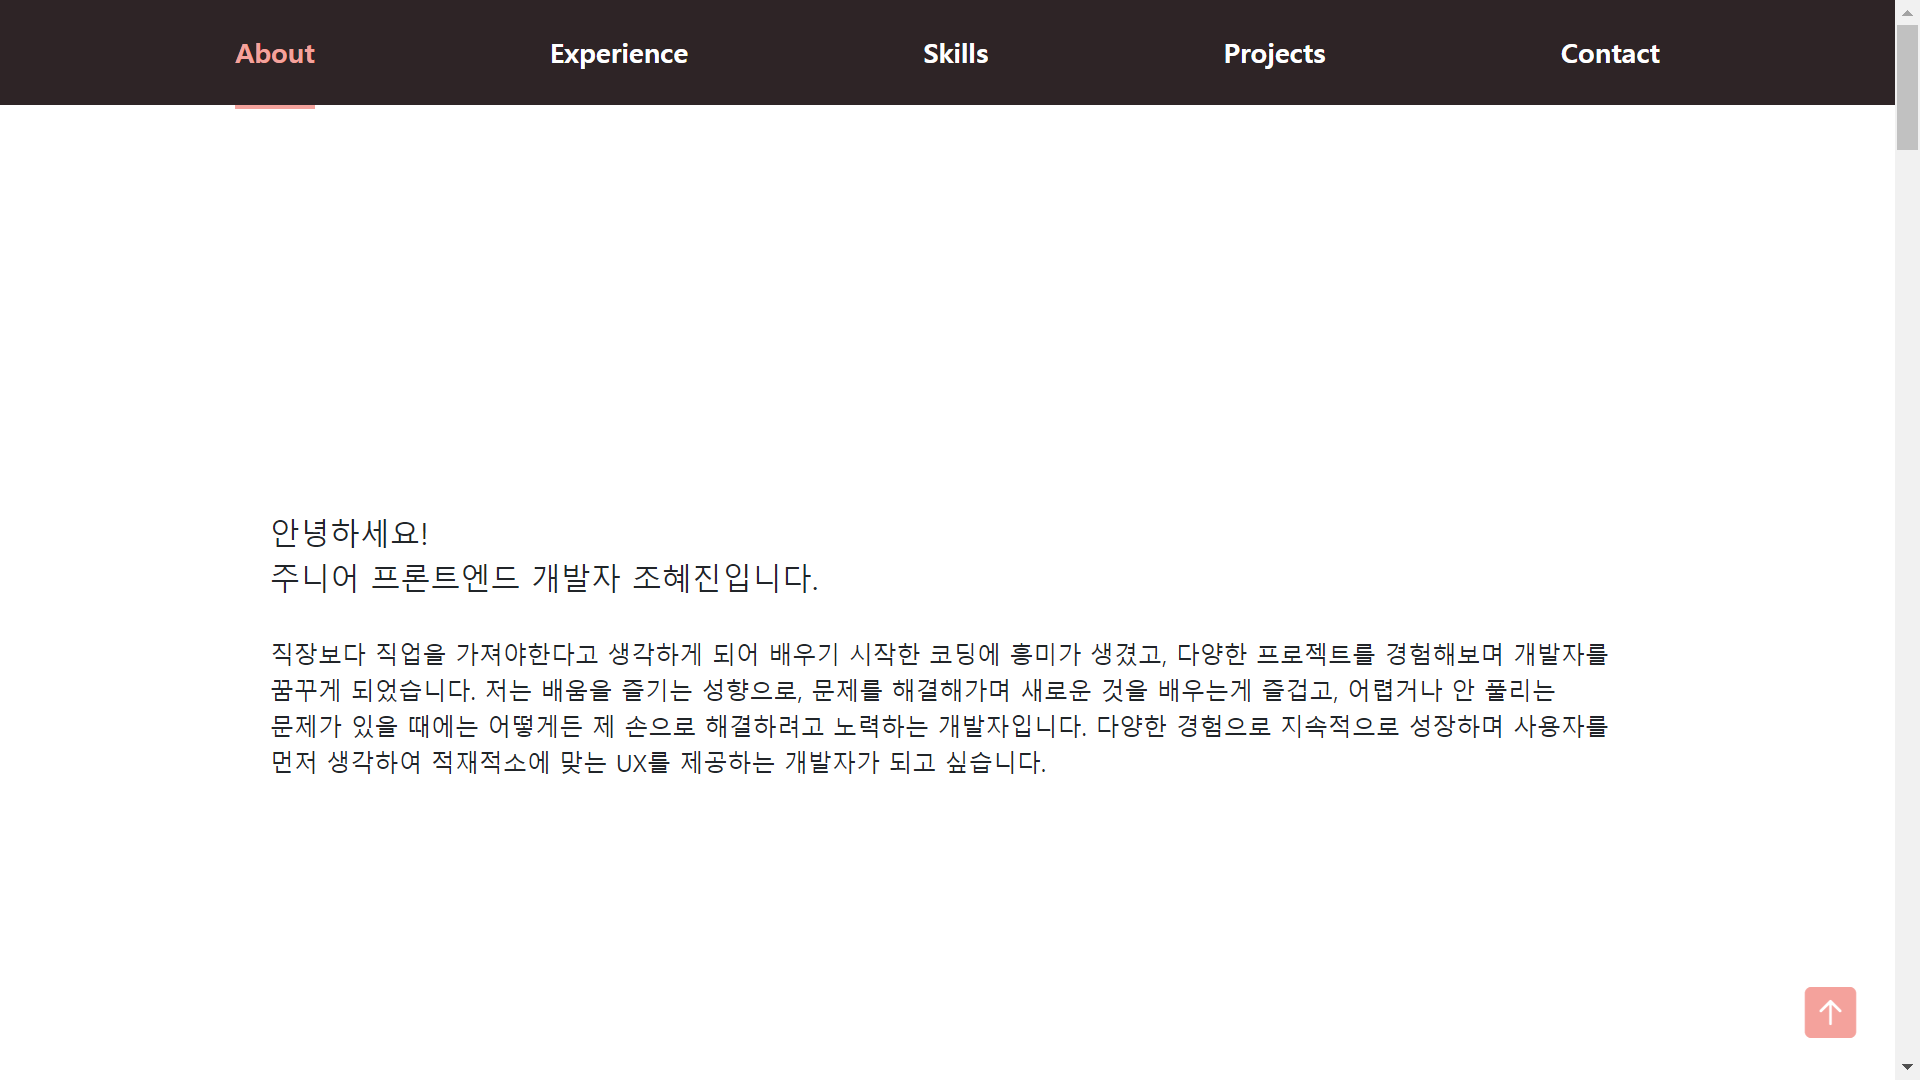
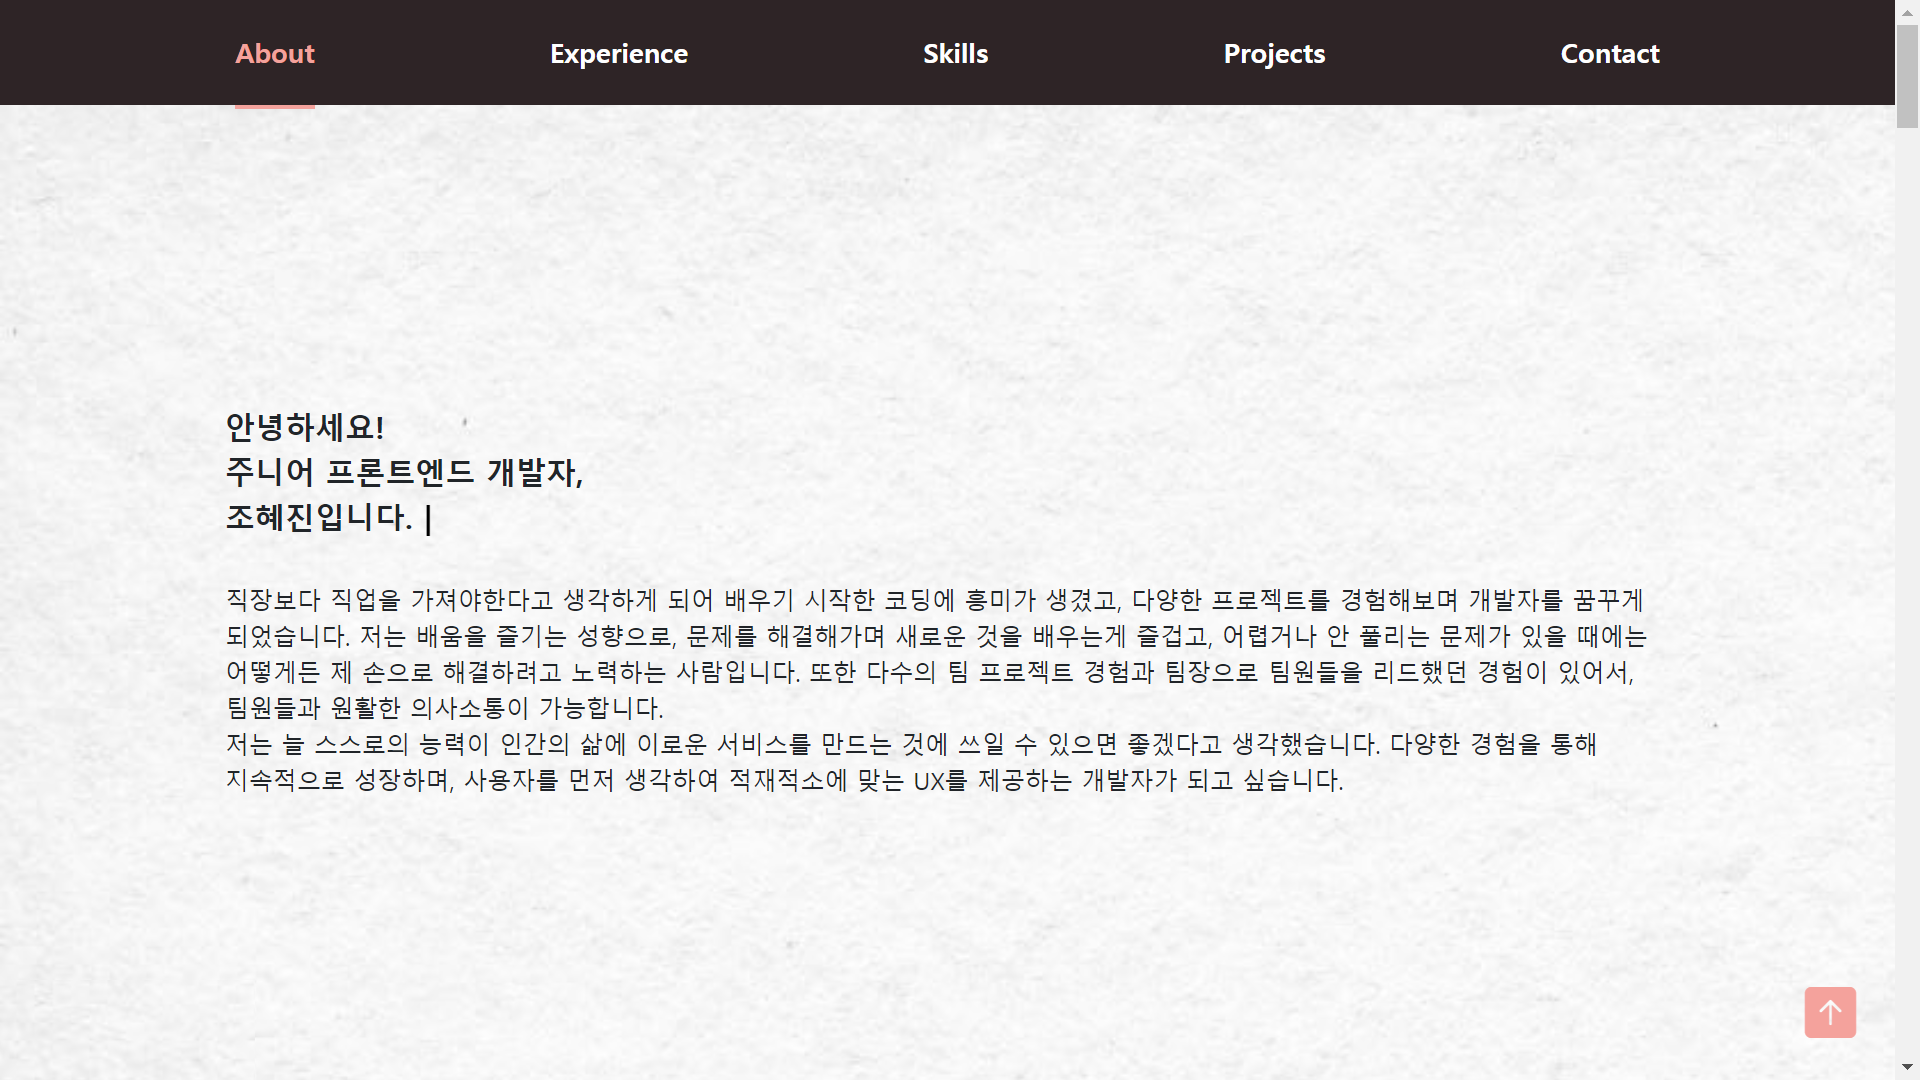
fix: viewport height, mediaquery height 수정

Changed region(s): [[0.125, 0.3667, 0.8438, 0.7333], [0.9688, 0.1222, 1.0, 0.1528]]

diff --git a/css/main.css b/css/main.css
@@ -1,6 +1,7 @@
 @import url('https://cdn.jsdelivr.net/npm/bootstrap-icons@1.11.3/font/bootstrap-icons.min.css');
 
-body {
+body,
+.wrap {
   margin: 0;
   padding: 0;
   word-break: keep-all;
@@ -12,8 +13,7 @@ body {
 
 /* intro */
 #intro {
-  height: auto;
-  line-height: 1.8;
+  height: 80vh;
   margin: 40px 9.375rem;
   line-height: 1.5;
   display: flex;
@@ -173,6 +173,7 @@ footer > p {
   /* home */
   #intro {
     margin: 50px;
+    height: auto;
   }
   #intro-text {
     margin: 0;

diff --git a/css/skills.css b/css/skills.css
@@ -11,12 +11,13 @@
 }
 
 #skill-content {
-  height: auto;
+  height: 80vh;
   color: #2e2426;
   margin: 40px 9.375rem;
   font-size: 18px;
   display: flex;
   flex-direction: column;
+  justify-content: center;
 }
 
 #sk_info {
@@ -31,6 +32,7 @@
 @media screen and (max-width: 768px) {
   /* 모바일 버전 */
   #skill-content {
+    height: auto;
     margin: 50px;
     display: flex;
     flex-direction: column;
